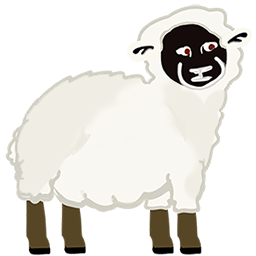
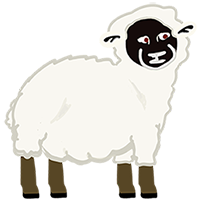
barn overlay and animal resize

diff --git a/src/main/java/thesimpleton/effects/BarnstormAnimalChargeEffect.java b/src/main/java/thesimpleton/effects/BarnstormAnimalChargeEffect.java
@@ -37,13 +37,29 @@ public class BarnstormAnimalChargeEffect extends AbstractGameEffect {
     private float _y;
     private boolean usePowerfulImpact = false;
 
+    private static final String BARN_UNDERLAY_IMG_PATH =  SimpletonVfxHelper.getImgFilePath("barnstorm-effect", "barn-underlay");
+
+    private static final String BARN_OVERLAY_IMG_PATH =  SimpletonVfxHelper.getImgFilePath("barnstorm-effect", "barn-overlay");
+
     private static final String PIG_IMG_PATH =  SimpletonVfxHelper.getImgFilePath("barnstorm-effect", "barnanimal-pig");
 
     private static final String SHEEP_IMG_PATH =  SimpletonVfxHelper.getImgFilePath("barnstorm-effect", "barnanimal-sheep");
+
+    private static Texture barnUnderlayImage;
+
+    private Texture barnOverlayImage;
+
     private static Texture pigImage;
     private static Texture sheepImage;
 
     private Texture animalImage;
+
+
+    private final int barnWidth;
+    private final int barnHeight;
+
+    private final int animalWidth;
+    private final int animalHeight;
 
     public static float getFullDuration() {
         return INITIAL_WAIT_DURATION + ANIMAL_CHARGE_DURATION;
@@ -63,6 +79,16 @@ public class BarnstormAnimalChargeEffect extends AbstractGameEffect {
         this.isSheepOrWhatever = isSheepOrWhatever;
         this.usePowerfulImpact = usePowerfulImpact;
 
+        if (barnUnderlayImage == null) {
+            barnUnderlayImage = TheSimpletonMod.loadTexture(TheSimpletonMod.getImageResourcePath(BARN_UNDERLAY_IMG_PATH));
+        }
+        if (barnOverlayImage == null) {
+            barnOverlayImage = TheSimpletonMod.loadTexture(TheSimpletonMod.getImageResourcePath(BARN_OVERLAY_IMG_PATH));
+        }
+
+        barnWidth = barnOverlayImage.getWidth();
+        barnHeight = barnOverlayImage.getHeight();
+
         if (pigImage == null) {
             pigImage = TheSimpletonMod.loadTexture(TheSimpletonMod.getImageResourcePath(PIG_IMG_PATH));
         }
@@ -75,6 +101,8 @@ public class BarnstormAnimalChargeEffect extends AbstractGameEffect {
         } else {
             animalImage = pigImage;
         }
+        animalWidth = animalImage.getWidth();
+        animalHeight = animalImage.getHeight();
     }
 
     private boolean isAnimalCharging = false;
@@ -127,6 +155,16 @@ public class BarnstormAnimalChargeEffect extends AbstractGameEffect {
 
     @Override
     public void render(SpriteBatch sb) {
+
+        sb.draw(barnUnderlayImage, this._initialX, this._initialY,
+                barnWidth/2f, barnHeight/2f,
+                barnWidth, barnHeight,
+                this.scale * Settings.scale, this.scale * Settings.scale,
+                this.rotation,
+                0, 0,
+                barnWidth, barnHeight,
+                false, false);
+
         if (isAnimalCharging) {
 //            TheSimpletonMod.traceLogger.log("[BarnstormAnimalChargeEffect] render() called."
 //                    + " t: " + (this.totalDuration - this.duration) / this.totalDuration
@@ -135,16 +173,23 @@ public class BarnstormAnimalChargeEffect extends AbstractGameEffect {
 
             sb.setColor(this.color);
 
-            final int w = animalImage.getWidth();
-            final int h = animalImage.getHeight();
             // This method has a lot of orb slots
             sb.draw(animalImage, this._x, this._y,
-                    w/2f, h/2f,
-                    w, h,
+                    animalWidth/2f, animalHeight/2f,
+                    animalWidth, animalHeight,
                     this.scale * Settings.scale, this.scale * Settings.scale,
                     this.rotation,
                     0, 0,
-                    w, h,
+                    animalWidth, animalHeight,
+                    false, false);
+
+            sb.draw(barnOverlayImage, this._initialX, this._initialY,
+                    barnWidth/2f, barnHeight/2f,
+                    barnWidth, barnHeight,
+                    this.scale * Settings.scale, this.scale * Settings.scale,
+                    this.rotation,
+                    0, 0,
+                    barnWidth, barnHeight,
                     false, false);
         }
     }
